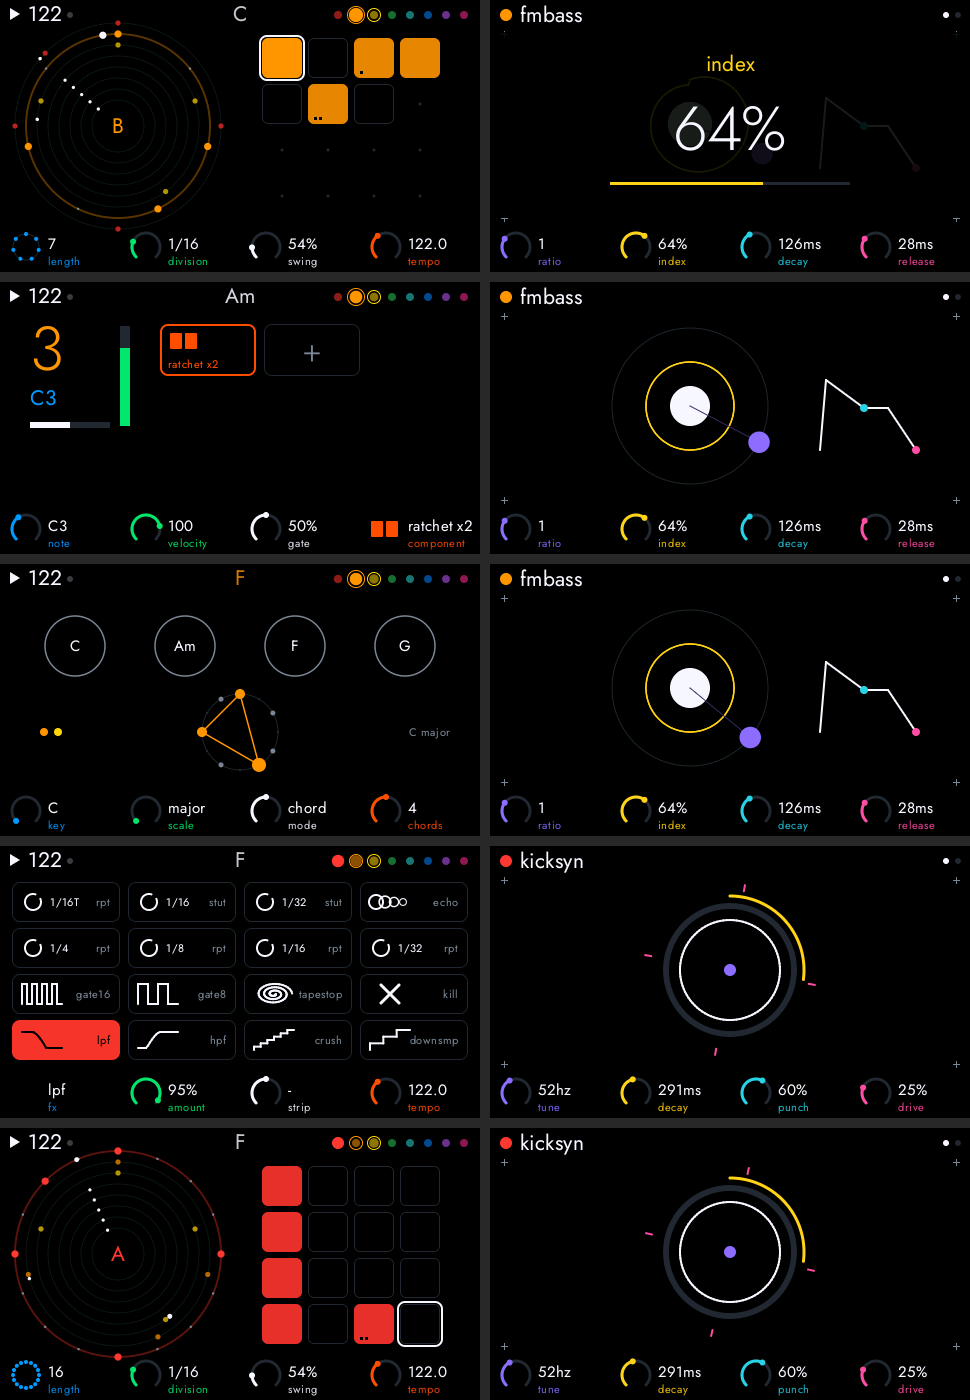
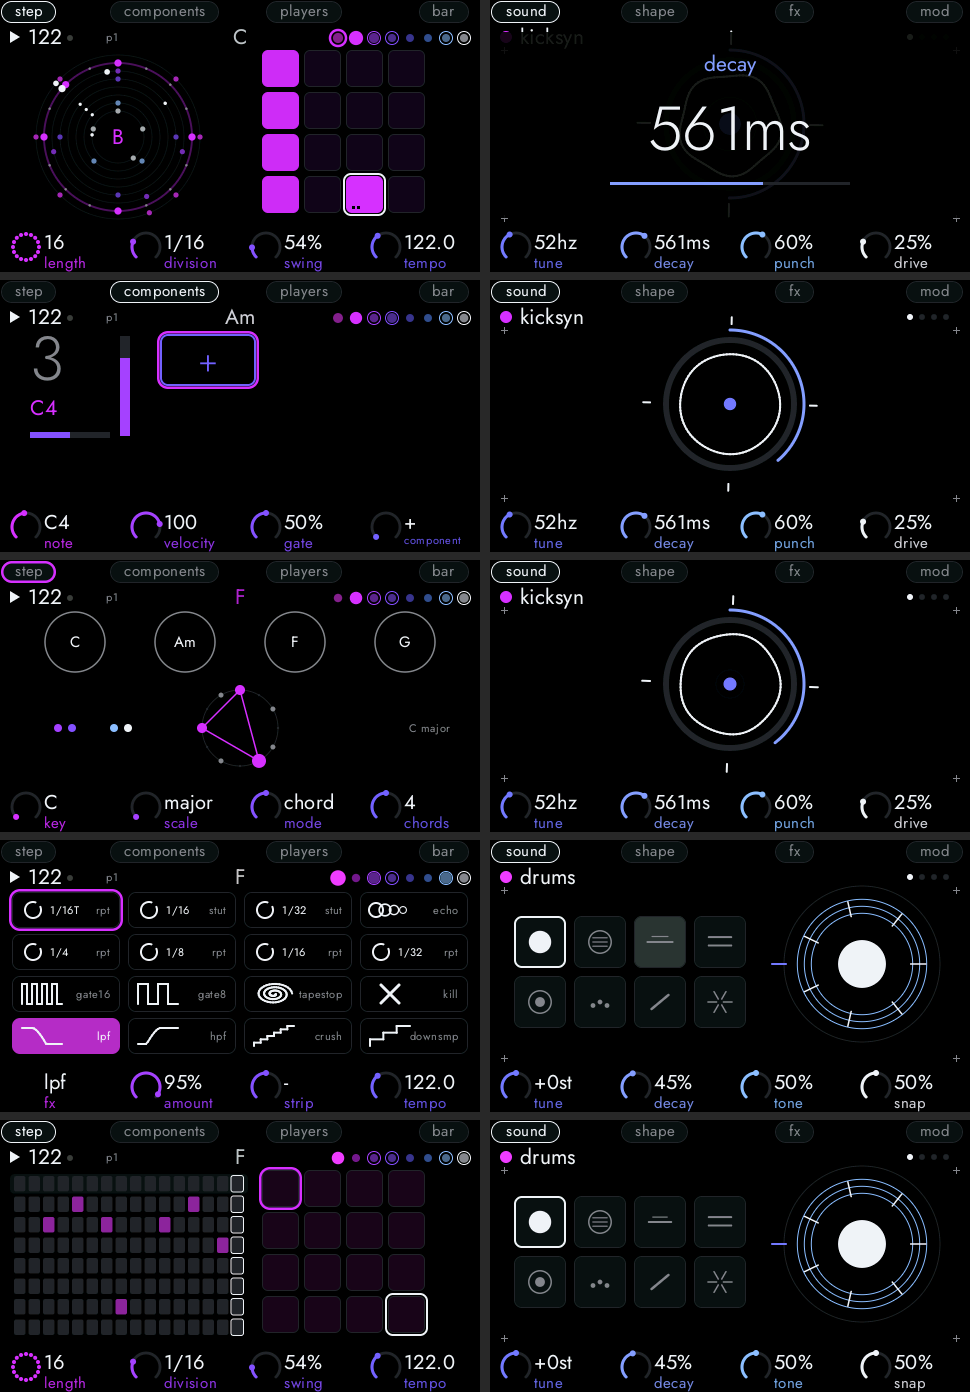
Chrome everywhere: the site, the manual, the pictures, the mark and the README are in chrome; matte and glossy are chosen on the unit
The page palettes, the map of the unit, the brand mark and the social image are chrome; the theme switchers of the site and the stored choice are gone;
the home explains the two other themes; sim-screens.png is retaken from the simulator; check-site fails on a matte or glossy colour in a page;
README and design.md say chrome is the default (they said matte).

diff --git a/guide/site.css b/guide/site.css
@@ -1,18 +1,18 @@
 /* What every page of the site shares: the skip link, the header, the footer and the focus ring.
    Each page keeps its own palette (the matte theme by default, from themes.js or the manual's own variables). */
-.skip{position:absolute;left:-999px;top:8px;z-index:20;background:var(--panel,#12161D);color:var(--fg,#F4EFE6);border:1px solid var(--dim,#8E918F);border-radius:8px;padding:8px 14px}
+.skip{position:absolute;left:-999px;top:8px;z-index:20;background:var(--panel,#0F1014);color:var(--fg,#EEF0F5);border:1px solid var(--dim,#80858F);border-radius:8px;padding:8px 14px}
 .skip:focus{left:12px}
-header.site{position:fixed;top:0;left:0;right:0;z-index:10;display:flex;align-items:center;justify-content:space-between;gap:16px;padding:10px 18px;background:color-mix(in srgb,var(--bg,#000) 82%,transparent);backdrop-filter:blur(8px);-webkit-backdrop-filter:blur(8px);border-bottom:1px solid var(--faint,#262A30);font:400 15px/1 Jost,system-ui,sans-serif}
-header.site a{color:var(--dim,#8E918F);text-decoration:none}
-header.site a:hover,header.site a[aria-current=page]{color:var(--fg,#F4EFE6)}
-header.site .home{display:flex;align-items:center;gap:10px;color:var(--fg,#F4EFE6);letter-spacing:.06em}
+header.site{position:fixed;top:0;left:0;right:0;z-index:10;display:flex;align-items:center;justify-content:space-between;gap:16px;padding:10px 18px;background:color-mix(in srgb,var(--bg,#000) 82%,transparent);backdrop-filter:blur(8px);-webkit-backdrop-filter:blur(8px);border-bottom:1px solid var(--faint,#24262C);font:400 15px/1 Jost,system-ui,sans-serif}
+header.site a{color:var(--dim,#80858F);text-decoration:none}
+header.site a:hover,header.site a[aria-current=page]{color:var(--fg,#EEF0F5)}
+header.site .home{display:flex;align-items:center;gap:10px;color:var(--fg,#EEF0F5);letter-spacing:.06em}
 header.site .home img{width:34px;height:auto;display:block}
 header.site nav{display:flex;gap:6px 20px;flex-wrap:wrap;justify-content:flex-end;position:static;transform:none;flex-direction:row;right:auto;top:auto}
 header.site nav a{width:auto;height:auto;border-radius:0;background:none;transform:none;display:inline}
-footer.site{padding:44px 20px 60px;text-align:center;color:var(--dim,#8E918F);font:300 15px/1.6 Jost,system-ui,sans-serif;border-top:1px solid var(--faint,#262A30)}
-footer.site a{color:var(--fg,#F4EFE6)}
+footer.site{padding:44px 20px 60px;text-align:center;color:var(--dim,#80858F);font:300 15px/1.6 Jost,system-ui,sans-serif;border-top:1px solid var(--faint,#24262C)}
+footer.site a{color:var(--fg,#EEF0F5)}
 footer.site p{margin:6px auto;max-width:70ch}
 footer.site small{display:block;margin-top:14px;font-size:13px;opacity:.8}
-a:focus-visible,button:focus-visible,[tabindex]:focus-visible{outline:2px solid var(--acc,#3B8EBA);outline-offset:3px;border-radius:4px}
+a:focus-visible,button:focus-visible,[tabindex]:focus-visible{outline:2px solid var(--acc,#707AFF);outline-offset:3px;border-radius:4px}
 html{scroll-padding-top:64px}
 @media (max-width:560px){header.site{padding:8px 12px;font-size:14px}header.site .home b{display:none}}

diff --git a/guide/index.tpl.html b/guide/index.tpl.html
@@ -13,8 +13,8 @@
 @font-face{font-family:Jost;font-weight:300;src:url(fonts/Jost-Light.ttf)}
 @font-face{font-family:Jost;font-weight:400;src:url(fonts/Jost-Regular.ttf)}
 :root{
-  --bg:#000;--fg:#F2F4F8;--dim:#7E8794;--faint:#232831;--panel:#0D1118;--rec:#FF3B30;
-  --k1:#0099FF;--k2:#00E56A;--k3:#F2F4F8;--k4:#FF4F00;--k5:#8B6CFF;--k6:#FFD21F;--k7:#2ED3E6;--k8:#FF4FA0;
+  --bg:#000;--fg:#EEF0F5;--dim:#80858F;--faint:#24262C;--panel:#0F1014;--rec:#FF2244;
+  --k1:#D633FF;--k2:#A442FF;--k3:#8652FF;--k4:#7361FF;--k5:#707AFF;--k6:#809DFF;--k7:#8FBCFF;--k8:#EEF0F5;
   --acc:var(--k1);
 }
 *{box-sizing:border-box;margin:0}
@@ -183,16 +183,13 @@ a.btn:hover{border-color:var(--acc);color:var(--acc)}a.btn.main{border-color:var
     <div class="scr"><canvas id="cL" width="480" height="272"></canvas></div>
     <div class="scr"><canvas id="cR" width="480" height="272"></canvas></div>
   </div>
-  <div class="row" id="themeTabs"></div>
-  <p class="dim" style="font-size:15px">Themes change the whole page. On the MK3: SETTINGS, then turn the 4D encoder.</p>
 </section>
 
 <section id="s4b">
-  <h2>Three themes</h2>
-  <p class="lead">Soft, bright, monochrome. Matte is where it starts.</p>
-  <svg id="themeMk" role="img" aria-label="The MK3 in the chosen theme" style="width:min(1000px,96vw);height:auto;display:block;margin:auto"></svg>
+  <h2>Chrome, and two more</h2>
+  <p class="lead">Octachrome starts in chrome: one range, violet to blue, then white. Matte (soft) and glossy (bright) are chosen on the unit: SETTINGS, then the 4D encoder.</p>
+  <svg id="themeMk" role="img" aria-label="The MK3 in chrome, the theme Octachrome starts in" style="width:min(1000px,96vw);height:auto;display:block;margin:auto"></svg>
   <div class="cap" id="themeCap"></div>
-  <div class="row" id="themeTabs2"></div>
 </section>
 
 <section id="s5">
@@ -364,7 +361,6 @@ function frame(ms) {
   requestAnimationFrame(frame);
 }
 requestAnimationFrame(frame);
-OCTACHROME.tabs($("#themeTabs"));
 
 /* instruments */
 const INST = [
@@ -389,7 +385,7 @@ requestAnimationFrame(drawCards);
 /* copy */
 $("#copy").onclick = async e => { try { await navigator.clipboard.writeText("octachrome"); e.target.textContent = "Copied"; } catch (x) { e.target.textContent = "Select it"; } setTimeout(() => e.target.textContent = "Copy", 1400); };
 
-OCTACHROME.tabs($("#themeTabs2"));OCTACHROME.mount($("#themeMk"), $("#themeCap"));
+OCTACHROME.mount($("#themeMk"), $("#themeCap"));
 applyTheme(OCTACHROME.cur);
 </script>
 </body>

diff --git a/guide/unit-map.js b/guide/unit-map.js
@@ -1,9 +1,9 @@
 /* The map of the unit at the start of the manual: the faceplate from mk3.js (the one source of every picture of the unit,
-   docs/design.md §2.4), every part numbered and named, in the matte theme. A button's colour is its status in docs/buttons.md
+   docs/design.md §2.4), every part numbered and named, in the chrome theme. A button's colour is its status in docs/buttons.md
    (the manual passes that table as `rows`). */
 (function () {
   window.drawUnitMap = function (host, rows) {
-    const M = window.MK3, T = window.OCTACHROME.THEMES.matte, NS = "http://www.w3.org/2000/svg";
+    const M = window.MK3, T = window.OCTACHROME.THEMES.chrome, NS = "http://www.w3.org/2000/svg";
     const el = (tag, attrs, parent, text) => { const e = document.createElementNS(NS, tag); for (const k in attrs) e.setAttribute(k, attrs[k]); if (text != null) e.textContent = text; (parent || svg).appendChild(e); return e; };
     const svg = document.createElementNS(NS, "svg");
     svg.setAttribute("viewBox", "0 0 " + M.W + " " + M.H); svg.setAttribute("role", "img");
@@ -12,7 +12,7 @@
       const r = rows.find(x => x.n.split(" · ")[0].replace(/\s+/g, " ") === label || x.n.split(" · ")[0].replace(/\s+/g, " ") === label.replace("PAGE ◀", "PAGE ◀ ▶").replace("PAGE ▶", "PAGE ◀ ▶"));
       return r ? r.t : null;
     };
-    const fill = { y: T.knobs[4], p: T.knobs[5], n: T.off };
+    const fill = { y: "#7FB58A", p: "#E3C77A", n: T.off }; // the status of a button (green, sand, grey), the same as the manual's --g and --y: not a theme colour
     const box = [38, 6, 450, 432];
     el("rect", { x: M.body[0], y: M.body[1], width: M.body[2], height: M.body[3], rx: 26, fill: T.panel, stroke: T.faint, "stroke-width": 2 });
     // screens

diff --git a/guide/themes.js b/guide/themes.js
@@ -1,6 +1,6 @@
 /* The three themes, ONE definition for the guide and the brand page (docs/design.md §2).
    Mirrors crates/octachrome-gfx/src/theme.rs: keep the two in step.
-   OCTACHROME.cur is shared between pages through localStorage, so choosing a theme in one changes the other. */
+   The site is always in chrome, the default of the machine; matte and glossy are chosen on the unit (SETTINGS), so nothing is stored. */
 (function () {
   const RB = ["#FF2D2D","#FF8A1F","#FFD21F","#00E56A","#0099FF","#4B4BFF","#B15CFF","#F2F4F8"];
   const CH = ["#D633FF","#A442FF","#8652FF","#7361FF","#707AFF","#809DFF","#8FBCFF","#EEF0F5"];
@@ -22,13 +22,11 @@
       light:{ bl:.8, level:3, mono:.85 }, cap:"Chrome · one range",
       note:"Monochrome: magenta-violet to blue, strong to soft, then white. Screens at 80 % of the backlight, pads and groups at level 3. To be tuned on the unit." },
   };
-  const ORDER = ["matte", "glossy", "chrome"], KEY = "octachrome-theme", subs = [];
-  let cur = "matte";
-  try { const s = localStorage.getItem(KEY); if (THEMES[s]) cur = s; } catch (e) {}
+  const ORDER = ["chrome", "matte", "glossy"], subs = [];
+  let cur = "chrome";
   const OCTACHROME = { THEMES, ORDER, get cur() { return cur; },
-    set(n) { if (!THEMES[n]) return; cur = n; try { localStorage.setItem(KEY, n); } catch (e) {} subs.forEach(f => f(n)); },
+    set(n) { if (!THEMES[n]) return; cur = n; subs.forEach(f => f(n)); },
     on(f) { subs.push(f); } };
-  addEventListener("storage", e => { if (e.key === KEY && THEMES[e.newValue]) { cur = e.newValue; subs.forEach(f => f(cur)); } });
   /* a tab row bound to the shared theme */
   OCTACHROME.tabs = function (box) {
     box.innerHTML = "";

diff --git a/guide/brand.html b/guide/brand.html
@@ -5,8 +5,8 @@
 <style>
 @font-face{font-family:Jost;font-weight:300;src:url(fonts/Jost-Light.ttf)}
 @font-face{font-family:Jost;font-weight:400;src:url(fonts/Jost-Regular.ttf)}
-:root{color-scheme:dark;--bg:#000;--fg:#F2F4F8;--dim:#7E8794;--faint:#232831;--panel:#0D1118;
---k1:#0099FF;--k2:#00E56A;--k3:#F2F4F8;--k4:#FF4F00;--k5:#8B6CFF;--k6:#FFD21F;--k7:#2ED3E6;--k8:#FF4FA0}
+:root{color-scheme:dark;--bg:#000;--fg:#EEF0F5;--dim:#80858F;--faint:#24262C;--panel:#0F1014;
+--k1:#D633FF;--k2:#A442FF;--k3:#8652FF;--k4:#7361FF;--k5:#707AFF;--k6:#809DFF;--k7:#8FBCFF;--k8:#EEF0F5}
 *{box-sizing:border-box;margin:0}
 body{background:var(--bg);color:var(--fg);font:300 18px/1.4 Jost,system-ui,sans-serif;padding:30px 20px 80px;text-align:center;-webkit-font-smoothing:antialiased}
 a{color:var(--dim)}
@@ -27,7 +27,7 @@ button:hover{border-color:var(--dim)}
 .eights b{display:block;font-size:44px;font-weight:300}
 .eights span{color:var(--dim);font-size:15px}
 </style></head><body>
-<p><a href="index.html">Guide</a> · <b style="font-weight:400;color:#F2F4F8">Brand</b> · <a href="manual.html">Manual</a></p>
+<p><a href="index.html">Guide</a> · <b style="font-weight:400;color:#EEF0F5">Brand</b> · <a href="manual.html">Manual</a></p>
 
 <section>
   <h2>The wordmark</h2>

diff --git a/guide/manual.tpl.html b/guide/manual.tpl.html
@@ -8,8 +8,8 @@
 <style>
 @font-face{font-family:Jost;font-weight:300;src:url(fonts/Jost-Light.ttf)}
 @font-face{font-family:Jost;font-weight:400;src:url(fonts/Jost-Regular.ttf)}
-/* the matte theme (docs/design.md §2.1) is the colours of the page; the pictures of the unit in it are drawn in chrome, the machine's default */
-:root{color-scheme:dark;--bg:#000;--fg:#F4EFE6;--dim:#8E918F;--faint:#262A30;--panel:#12161D;--g:#7FB58A;--y:#E3C77A;--acc:#3B8EBA;--rec:#E63946;--k1:#3B8EBA;--k2:#D9822B;--k3:#A9AFB8;--k4:#F2652A;--k5:#7FB58A;--k6:#E3C77A;--k7:#A88BC7}
+/* the chrome theme (docs/design.md §2.1), the machine's default, is the colours of the page and of every picture of the unit; the green and the sand are the status of a button, not a theme */
+:root{color-scheme:dark;--bg:#000;--fg:#EEF0F5;--dim:#80858F;--faint:#24262C;--panel:#0F1014;--g:#7FB58A;--y:#E3C77A;--acc:#707AFF;--rec:#FF2244;--k1:#D633FF;--k2:#A442FF;--k3:#8652FF;--k4:#7361FF;--k5:#707AFF;--k6:#809DFF;--k7:#8FBCFF}
 *{box-sizing:border-box;margin:0}
 html{scroll-behavior:smooth;scroll-padding-top:20px}
 body{background:var(--bg);color:var(--fg);font:300 18px/1.6 Jost,system-ui,sans-serif;padding:84px 20px 40px;max-width:1040px;margin:auto;-webkit-font-smoothing:antialiased}

diff --git a/guide/404.tpl.html b/guide/404.tpl.html
@@ -8,7 +8,7 @@
 <style>
 @font-face{font-family:Jost;font-weight:300;src:url(fonts/Jost-Light.ttf)}
 @font-face{font-family:Jost;font-weight:400;src:url(fonts/Jost-Regular.ttf)}
-:root{color-scheme:dark;--bg:#000;--fg:#F4EFE6;--dim:#8E918F;--faint:#262A30;--panel:#12161D;--acc:#3B8EBA}
+:root{color-scheme:dark;--bg:#000;--fg:#EEF0F5;--dim:#80858F;--faint:#24262C;--panel:#0F1014;--acc:#707AFF}
 *{box-sizing:border-box;margin:0}
 body{background:var(--bg);color:var(--fg);font:300 20px/1.6 Jost,system-ui,sans-serif;-webkit-font-smoothing:antialiased}
 main{min-height:80vh;display:grid;place-content:center;text-align:center;gap:14px;padding:90px 20px}

diff --git a/crates/octachrome/src/main.rs b/crates/octachrome/src/main.rs
@@ -29,12 +29,12 @@ fn main() -> Result<()> {
             .cloned()
     };
     let seconds: Option<f32> = opt("-s", "--seconds").and_then(|s| s.parse().ok());
-    // Screen theme (docs/design.md §2): matte (default), glossy, chrome.
+    // Screen theme (docs/design.md §2): chrome (default), matte, glossy.
     let theme = opt("-t", "--theme").or_else(|| std::env::var("OCTACHROME_THEME").ok());
     let theme_given = theme.is_some();
     if let Some(name) = theme {
         let id = octachrome::settings::theme_from_name(&name)
-            .ok_or_else(|| anyhow::anyhow!("unknown theme {name:?} (matte, glossy, chrome)"))?;
+            .ok_or_else(|| anyhow::anyhow!("unknown theme {name:?} (chrome, matte, glossy)"))?;
         octachrome_gfx::set_theme(id);
     }
     let script = match opt("--script", "--script") {

diff --git a/scripts/check-site.py b/scripts/check-site.py
@@ -62,6 +62,10 @@ for f, (p, text) in pages.items():
         errors.append(f"{name}: no meta description")
     if p.h1 != 1 and name != "brand.html":
         errors.append(f"{name}: {p.h1} <h1> (should be one)")
+    # the site is in chrome, the default of the machine (docs/design.md §2.1): no page carries the matte or glossy palette of its own
+    for hexa in ("#12161D", "#F4EFE6", "#0D1118", "#F2F4F8", "#8E918F", "#7E8794"):
+        if hexa.lower() in text.lower():
+            errors.append(f"{name}: a colour of the matte or glossy theme ({hexa}); the site is in chrome")
     for src in p.imgs_no_alt:
         errors.append(f"{name}: image without alt: {src}")
     for marker in ("<!--HEADER-->", "<!--FOOTER-->", "<!--SOCIAL-->", "__DATA__", "{{"):

diff --git a/docs/design.md b/docs/design.md
@@ -32,7 +32,7 @@ What each MK3 button does is in its own document: **[buttons.md](buttons.md)**. 
 
 ## 2. Colour
 
-Three themes, three characters, in this order since 2026-11-16: **chrome** (the default of the unit and the twin, and the theme of the pictures of the manual since 2026-11-17; the page of the guide and the manual keeps matte colours) is monochrome: one range (violet drifting to blue, strong to soft) with white last; **matte** is softer and chalky and **glossy** is strong and bright. Every theme has exactly **eight** colours, always in an order that recalls the rainbow, and they are chosen for what the MK3's LEDs can show: 16 hues in 3 levels on the pads and group keys, one colour on every other button. The logic is the same in all three; only the palette changes. The hex values are ours, not measured from the devices.
+Three themes, three characters, in this order since 2026-11-16: **chrome** (the default of the unit and the twin, and the only theme of the guide, the manual, the pictures and the README since 2026-11-19) is monochrome: one range (violet drifting to blue, strong to soft) with white last; **matte** is softer and chalky and **glossy** is strong and bright. Every theme has exactly **eight** colours, always in an order that recalls the rainbow, and they are chosen for what the MK3's LEDs can show: 16 hues in 3 levels on the pads and group keys, one colour on every other button. The logic is the same in all three; only the palette changes. The hex values are ours, not measured from the devices.
 
 ### 2.1 Encoder colours
 
@@ -86,7 +86,7 @@ Rules of the mark:
 - The keys keep the proportion of the unit's group keys and rounded corners; the knobs are circles. A single button may light in turn, like a playhead; nothing else moves. In the guide the eight can be played as a major scale, the white being the octave.
 - The wordmark is `Octachrome` in Jost Light. The mark can stand alone or above the wordmark; the wordmark never carries the colours.
 - The infinity logo is drawn from the same colours (`Theme.brand`); it has no master file yet.
-- The master files are `guide/brand/octachrome-mark.svg` (4 + 4) and `guide/brand/octachrome-mark-knobs.svg` (a row). Their geometry is `MK3.mark` in `guide/mk3.js`.
+- The master files are `guide/brand/octachrome-mark.svg` (4 + 4) and `guide/brand/octachrome-mark-knobs.svg` (a row), both in the chrome colours (2026-11-19). Their geometry is `MK3.mark` in `guide/mk3.js`.
 
 ### 2.4 Pictures of the unit
 
@@ -94,7 +94,7 @@ Every picture of the MK3 (the guide's map, the manual, the brand page, the twin,
 
 - The master geometry is `guide/mk3.js`. **Where the positions come from:** they were measured (2026-11-18) on a top-down photo of Javi's own MK3, in photo pixels with the unit's top-left corner at (74, 299) and its size 838 × 793, then scaled into a 1000-wide box; the proportions of the unit are 1.06 : 1. The left block is, from the top, CHANNEL/PLUG-IN (small), ARRANGER/MIXER and BROWSER/SAMPLING (large), PAGE ◀ ▶, FILE/SETTINGS and AUTO/MACRO (small). A Maschine+ has the same keys but one wide screen and other proportions: it is not a reference. Drawings take their positions from this file; nobody places a button by eye.
 - **The manual's map and the twin show the same unit.** The twin (`twin/octachrome-twin.html`) places every part in a box with the unit's proportions from `UNIT_PANEL`, a copy of `guide/mk3.js` that `tests/twin_panel.rs` keeps the same (F-F21; `OCTACHROME_WRITE_TWIN=1 cargo test -p octachrome --test twin_panel` rewrites it). The keys of the unit that Octachrome does not use yet (EVENTS, VARIATION, DUPLICATE, SOLO, AUTO, MACRO, PAGE ◀ ▶, NOTE REPEAT, LOCK, PITCH, MOD, NOTES, FOLLOW) are there too, dark and without a function, so the panel is the unit's. On a narrow screen the twin does not squeeze the unit: it keeps a readable width and scrolls sideways.
-- The manual opens with a map of the unit drawn from it (`guide/unit-map.js`): every part is numbered and named, so the rest of the manual can say "button 5", "knob 7", "pad 12" or "group G". The manual, its pictures, the guide and the twin use the matte theme, the default; the other two are one press of the 4D encoder away in settings.
+- The manual opens with a map of the unit drawn from it (`guide/unit-map.js`): every part is numbered and named, so the rest of the manual can say "button 5", "knob 7", "pad 12" or "group G". The manual, its pictures, the guide, the twin, the social image and the README use the chrome theme, the default (2026-11-19: the site and the pictures no longer offer a choice of theme; the green and the sand of the map are the status of a button, not a theme). Matte and glossy are one press of the 4D encoder away in the settings of the unit, and in the twin, which imitates it.
 - Top to bottom: the eight screen buttons, the two screens, the eight knobs under them. On the left, six rows of two buttons (CHANNEL to MACRO), the 4D encoder with VOLUME, SWING and TEMPO beside it, then PITCH, MOD, PERFORM, NOTES, the Smart Strip, the group keys A–H as two rows of four, and the transport at the bottom. In the middle, the pad-mode buttons above the pads and SCENE to MUTE in a column to their left. On the right, the 4×4 pads.
 - A group of **eight** is drawn as the eight knobs in a row or as the eight group keys, four and four. A group of **sixteen** is the 4×4 pads. Never another arrangement.
 - The same rule applies to what the player sees in Octachrome: the 8 factory and 8 user instruments, and the 8 factory and 8 user projects, are the 16 pads ([instruments.md §7](instruments.md)).

diff --git a/README.md b/README.md
@@ -1,6 +1,6 @@
 # Octachrome
 
-<p align="center"><img src="guide/brand/octachrome-mark.svg" width="360" alt="Octachrome: eight keys, four and four, in rainbow order, the eighth white"></p>
+<p align="center"><img src="guide/brand/octachrome-mark.svg" width="360" alt="Octachrome: eight keys, four and four, in the chrome range from violet to blue, the eighth white"></p>
 
 <p align="center">
   <a href="https://github.com/jsrxar77/octachrome/actions/workflows/ci.yml"><img src="https://github.com/jsrxar77/octachrome/actions/workflows/ci.yml/badge.svg" alt="CI"></a>
@@ -44,7 +44,7 @@ cargo run --release -- run --script my.ocs   # the script drives the real app: y
 cargo run --release -- hw-test               # with the real MK3: rainbow on the 16 pads + a test frame on both screens + event log
 cargo run --release                          # play with the MK3 (audio, screens, LEDs, MIDI)
 scripts/run.sh                               # the same in one command: builds, frees the MK3 from NI's services, starts (-h for options)
-cargo run --release -- -t chrome              # another theme: matte (default), glossy, chrome
+cargo run --release -- -t matte               # another theme: chrome (default), matte, glossy
 ```
 
 On macOS, close NI's services first (`NIHardwareAgent`, `NIHostIntegrationAgent`, `NTKDaemon`): if they hold USB interface 5, Octachrome keeps working but without screens, and says so on the console. On Linux install `deploy/99-maschine-mk3.rules` to avoid needing root.
@@ -180,7 +180,7 @@ The two screens always say what the eight knobs under them do, and every button 
 * **PLUG-IN**: the 16 places of instruments for the selected track. **BROWSER**: the 16 presets of that instrument (the top rows come with it, yours below).
 * **ARRANGER**: scenes and the song; while a song plays a tap on a step jumps to it at the next bar (SHIFT: at once).
 * **MIXER**: four channels at a time, the compressor of the master, the EQ and the sends. **SAMPLING**: record, cut and keep a sound. **FILE**: the 16 projects (the top two rows are the eight songs).
-* **SETTINGS**: the theme (matte, glossy, chrome), the audio and MIDI devices, the light.
+* **SETTINGS**: the theme (chrome, matte, glossy), the audio and MIDI devices, the light.
 * **Groups A–H** select a track; **MUTE** + group mutes it; **SHIFT** + group links it to the Brain; **ERASE** + pad erases a step; **PERFORM** turns the pads into punch-in effects; the **Smart Strip** is, for now, a master filter; the **4D encoder** moves the focus everywhere.
 
 What every button does, in each context, is in [docs/buttons.md](docs/buttons.md).
